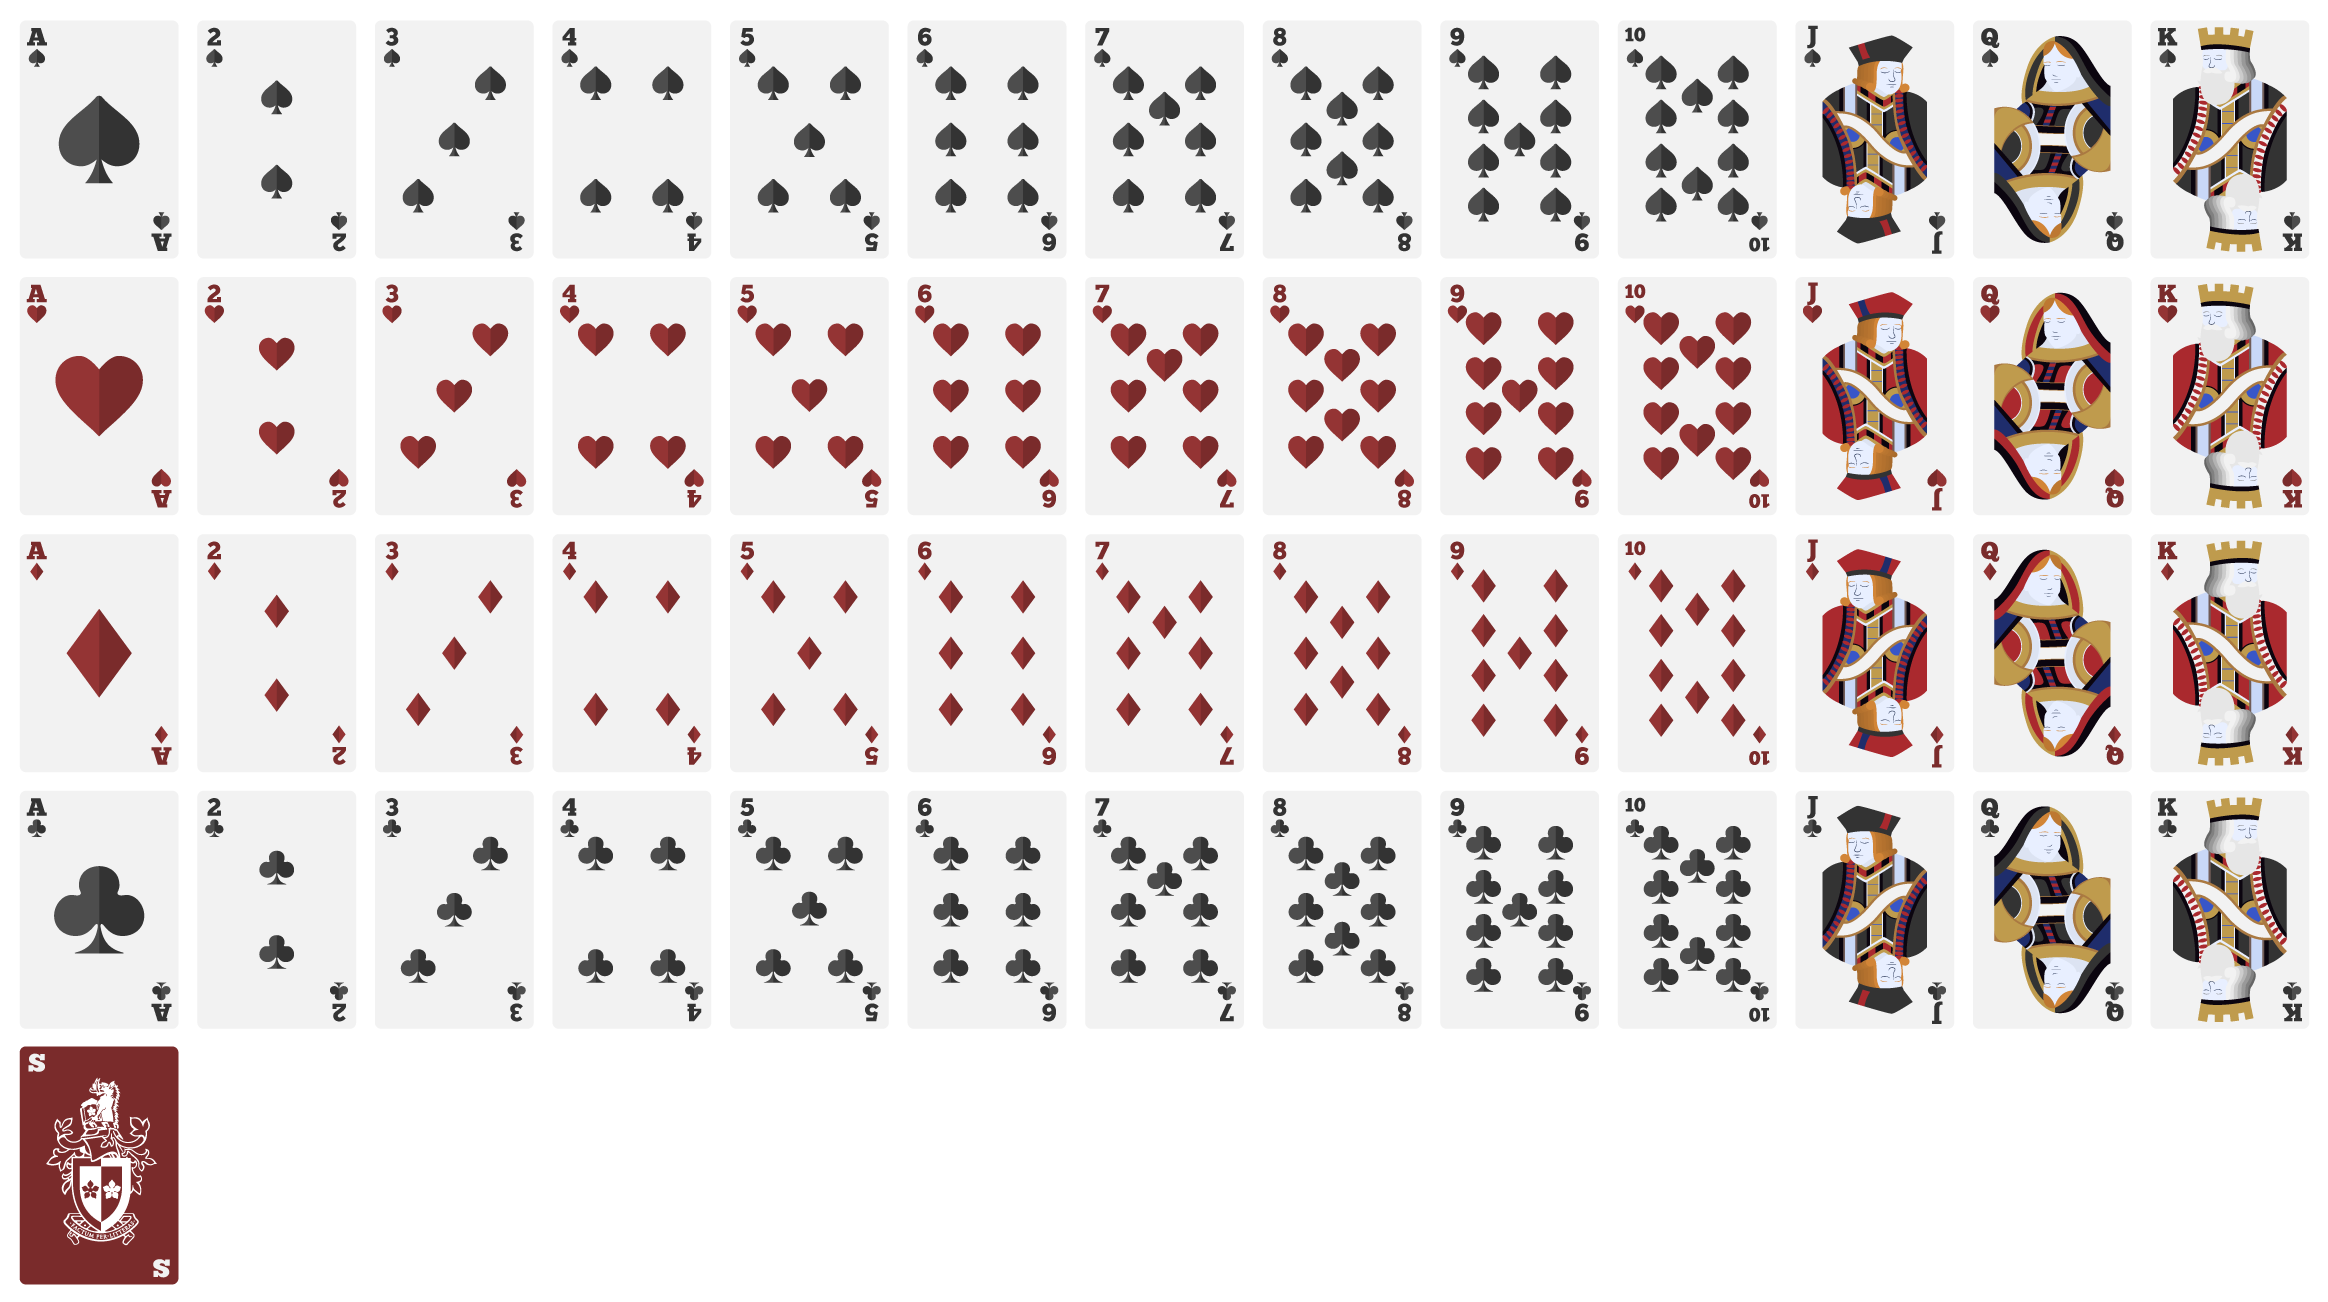
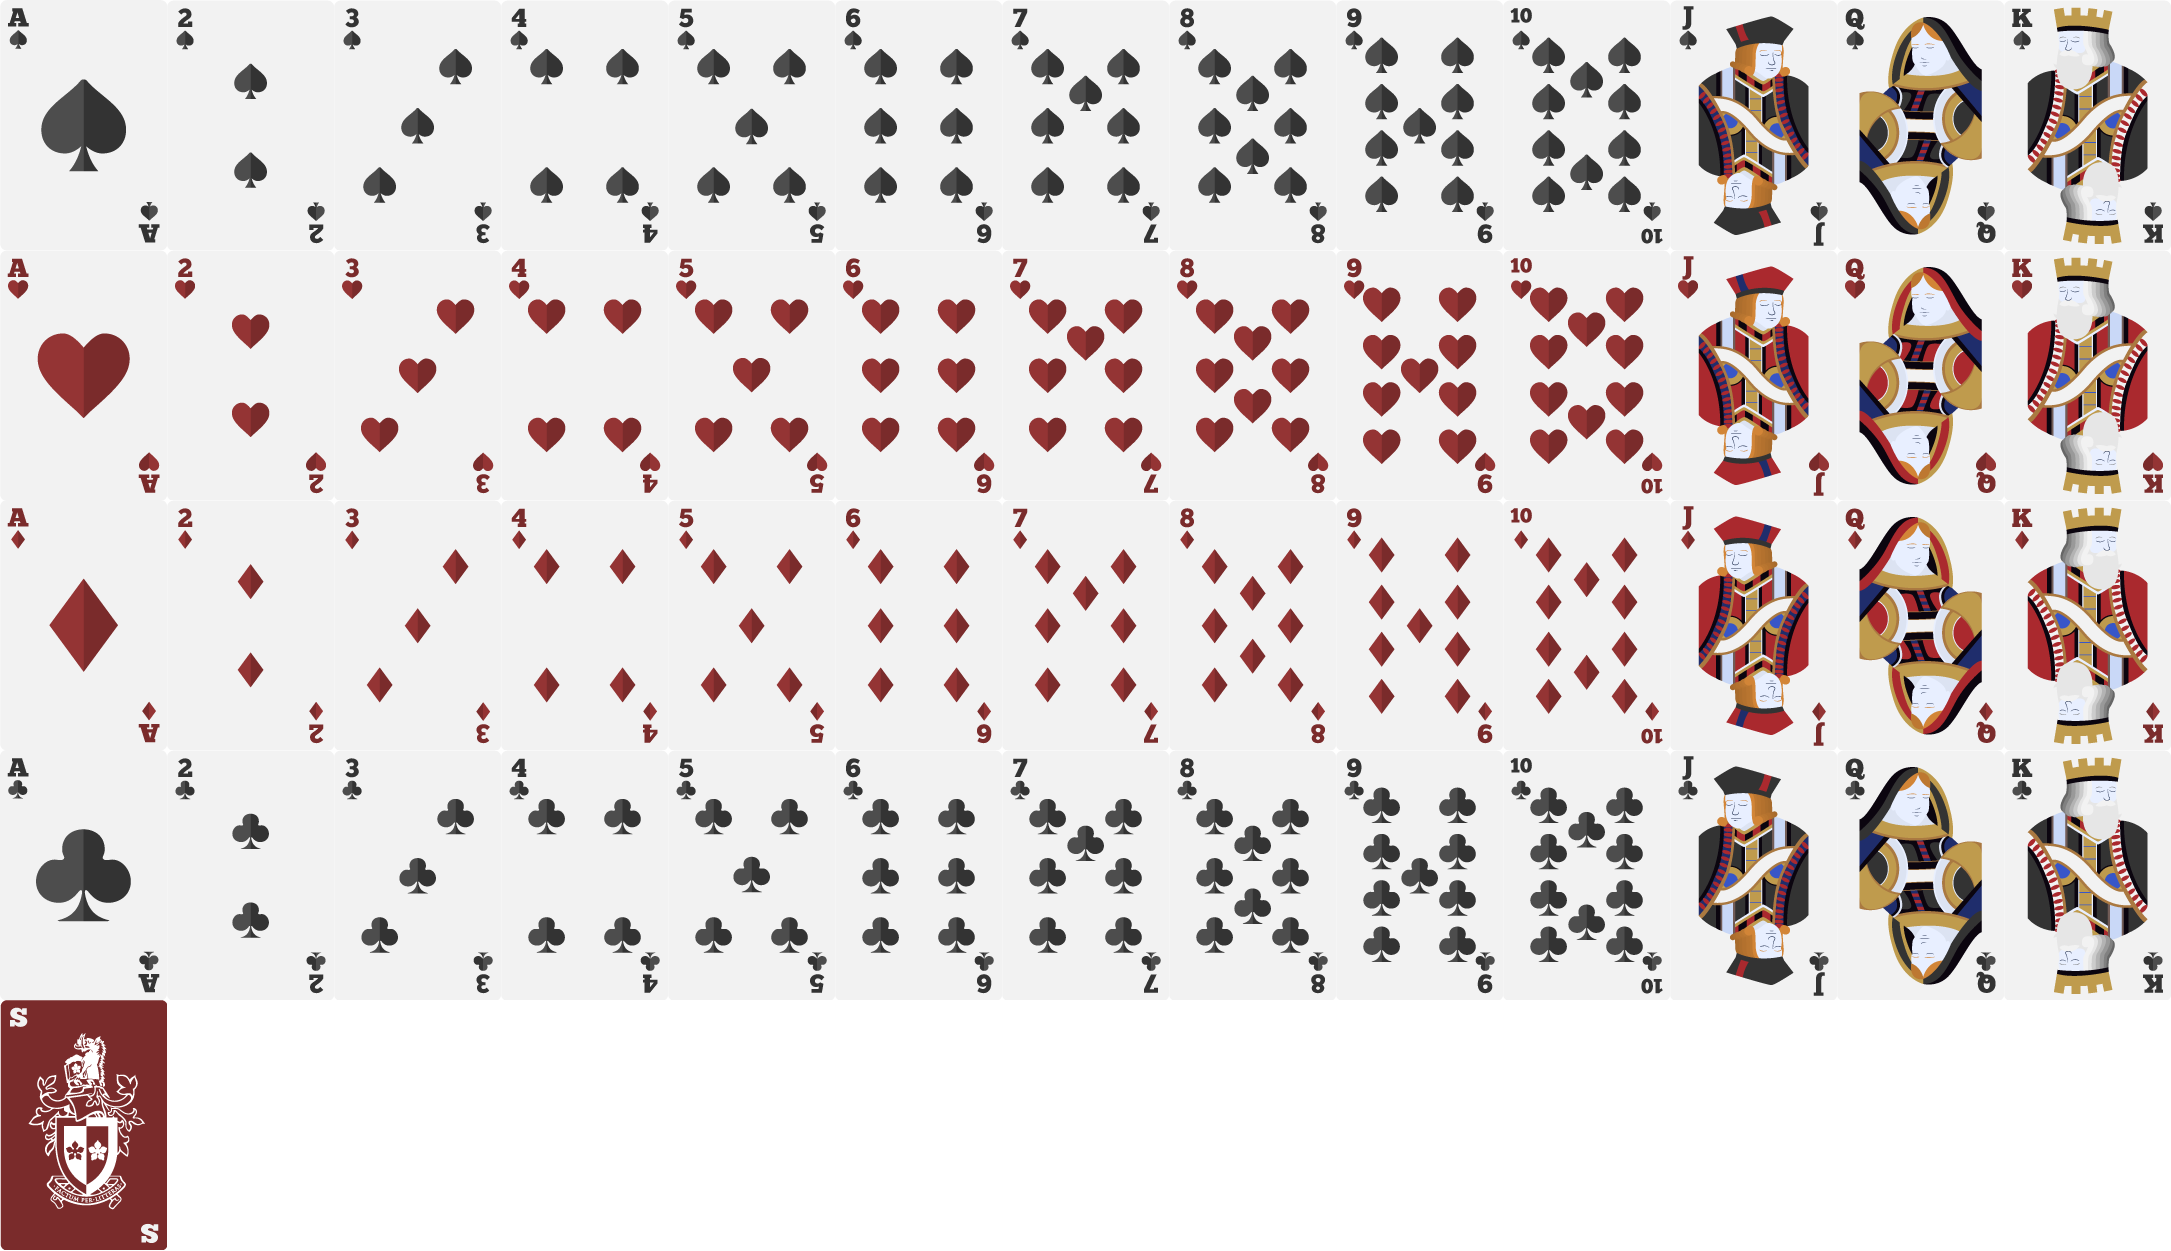
fix image size and gaps between cards

diff --git a/src/SnapGame.cs b/src/SnapGame.cs
@@ -10,7 +10,7 @@ namespace CardGames
         {
             Bitmap cards;
             cards = SwinGame.LoadBitmapNamed ("Cards", "Cards.png");
-            SwinGame.BitmapSetCellDetails (cards, 179, 259, 13, 5, 53);      // set the cells in the bitmap to match the cards
+            SwinGame.BitmapSetCellDetails (cards, 167, 250, 13, 5, 53);      // set the cells in the bitmap to match the cards
         }
 
 		/// <summary>
